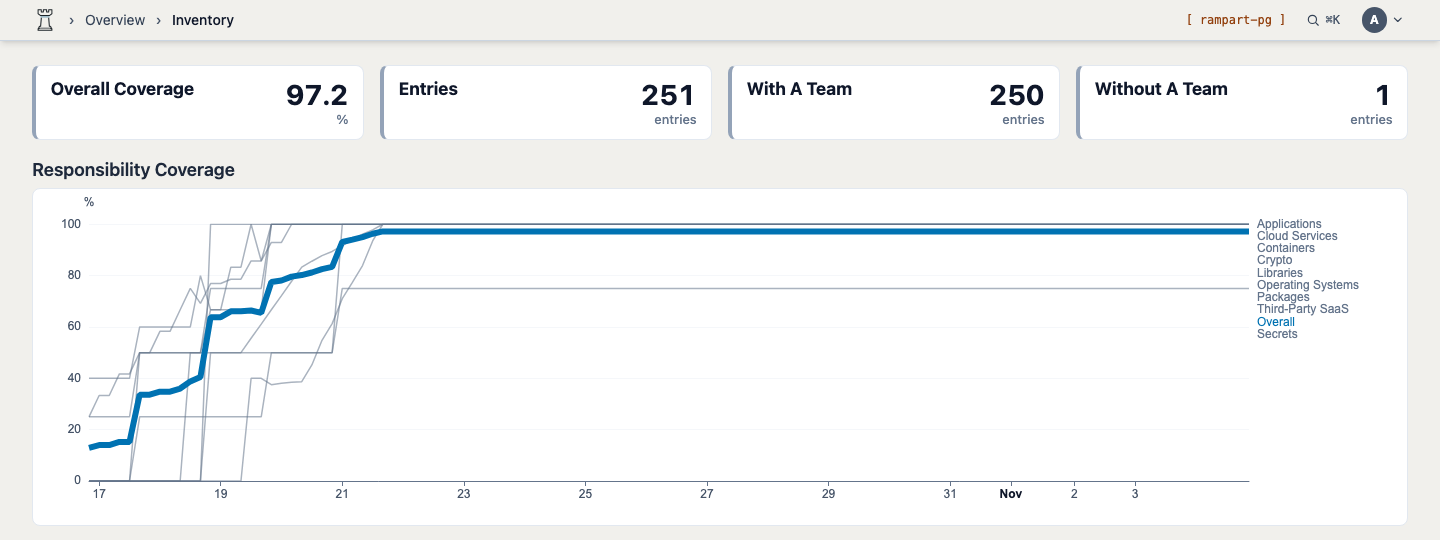
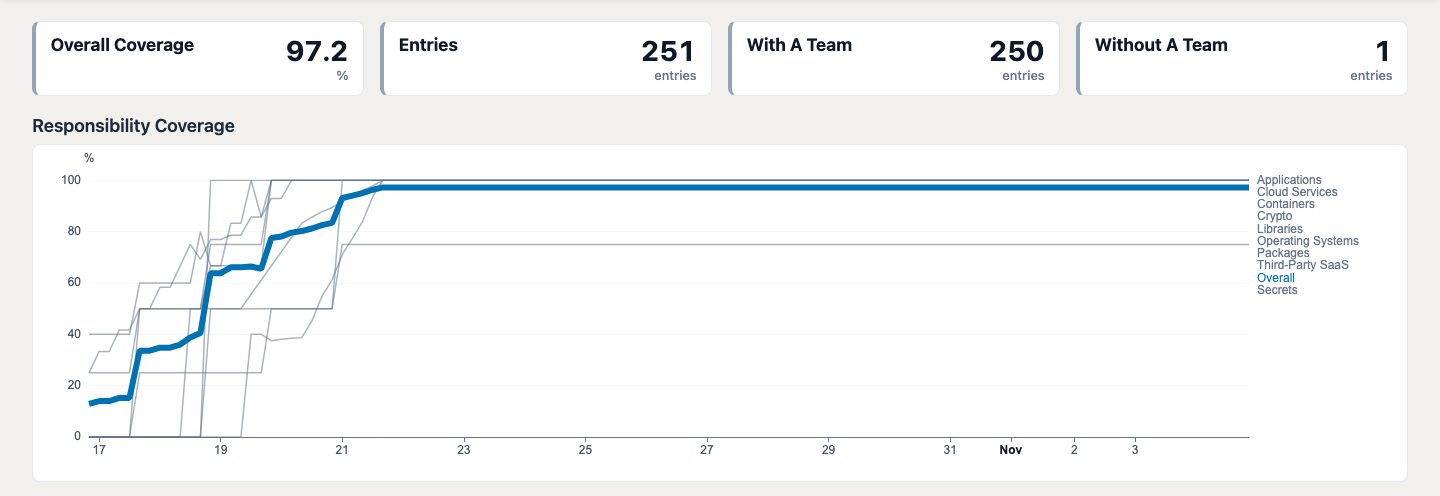
docs: README pictures: coverage at the top (top bar cropped), the StackArmor page instead of VDR MAX, no status report

diff --git a/README.md b/README.md
@@ -2,6 +2,8 @@
 
 > **Early-release software.** This is a working prototype. Pages change often, some are unfinished, and the specs are still moving. The deployment you will see is a mock. Nothing here is a FedRAMP authorization, an assessment, or advice about your own system. It is published early so that people working on FedRAMP 20x vulnerability detection and response (VDR) can see one approach and tell us what is wrong with it.
 
+![Responsibility coverage: the share of inventory with a responsible team, per category, over time](docs/images/07-coverage.png)
+
 ## What this is
 
 FedRAMP 20x VDR requires a provider to evaluate every vulnerability on every asset: assign a Potential Agency Impact level (PAIN, N1 to N5) and meet the remediation time that level carries. FedRAMP publishes the levels and the timeframe matrix. It does not publish how to get from one vulnerability on one asset to a level.
@@ -28,13 +30,10 @@ Everything domain-specific in TAP is a plugin, so a method, a collector, a page 
 | **Reporting** | A print-ready status report in two parts, an agency part and an internal part below a cut line, with coverage figures, coverage trends and a countdown to 7 December 2026. |
 | **Inventory, Data Classification, Teams** | The mock inventory in nine tables, the kinds of data it holds and which components carry each, and the teams that own things. The coverage charts are drawn here. |
 
-![VDR MAX](docs/images/03-vdr-max.png)
+![The StackArmor page](docs/images/04-stackarmor.png)
 
 ![One finding, step by step](docs/images/05-finding-walkthrough.png)
 
-![Reporting](docs/images/06-reporting.png)
-
-![Coverage](docs/images/07-coverage.png)
 
 ## Where the data comes from
 
